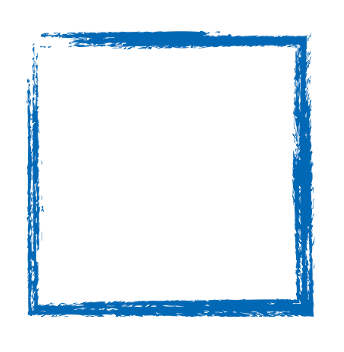
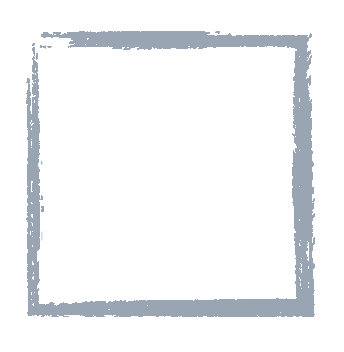
updating the look of the website

Changed region(s): [[0.0581, 0.0625, 0.9302, 0.9062]]

diff --git a/static/css/appOld.css b/static/css/appOld.css
@@ -2782,7 +2782,6 @@ button::-moz-focus-inner {
 /* line 152, ../bower_components/foundation/scss/foundation/components/_button-groups.scss */
 .button-group.even-5 li button, .button-group.even-5 li .button {
   width: 100%;
-  color: black;
 }
 /* line 161, ../bower_components/foundation/scss/foundation/components/_button-groups.scss */
 .button-group.even-6 li {
@@ -3862,7 +3861,7 @@ button::-moz-focus-inner {
 }
 /* line 117, ../bower_components/foundation/scss/foundation/components/_dropdown-buttons.scss */
 .dropdown.button::after, button.dropdown::after {
-  border-color: #000000 transparent transparent transparent;
+  border-color: #FFFFFF transparent transparent transparent;
 }
 /* line 124, ../bower_components/foundation/scss/foundation/components/_dropdown-buttons.scss */
 .dropdown.button.tiny, button.dropdown.tiny {
@@ -6970,7 +6969,7 @@ meta.foundation-mq-topbar {
 }
 /* line 252, ../bower_components/foundation/scss/foundation/components/_top-bar.scss */
 .top-bar .toggle-topbar.menu-icon a {
-  color: #000000;
+  color: #FFFFFF;
   height: 34px;
   line-height: 33px;
   padding: 0 4.375rem 0 2.8125rem;
@@ -7003,7 +7002,7 @@ meta.foundation-mq-topbar {
 }
 /* line 277, ../bower_components/foundation/scss/foundation/components/_top-bar.scss */
 .top-bar.expanded .toggle-topbar a {
-  color: #000000;
+  color: #fff;
 }
 /* line 280, ../bower_components/foundation/scss/foundation/components/_top-bar.scss */
 .top-bar.expanded .toggle-topbar a span::after {
@@ -7051,7 +7050,7 @@ meta.foundation-mq-topbar {
 }
 /* line 334, ../bower_components/foundation/scss/foundation/components/_top-bar.scss */
 .top-bar-section ul li > a {
-  color: #000000;
+  color: #FFFFFF;
   display: block;
   font-family: "Helvetica Neue", Helvetica, Roboto, Arial, sans-serif;
   font-size: 0.8125rem;
@@ -9209,7 +9208,6 @@ ul.off-canvas-list li a:active {
   }
 }
 /* medium displays */
-
 @media only screen and (min-width: 40.0625em) {
   /* line 244, ../bower_components/foundation/scss/foundation/components/_visibility.scss */
   .hide-for-small-only, .show-for-small-up, .hide-for-small, .hide-for-small-down, .show-for-medium-only, .show-for-medium-up, .show-for-medium, .show-for-medium-down, .hide-for-large-only, .hide-for-large-up, .hide-for-large, .show-for-large-down, .hide-for-xlarge-only, .hide-for-xlarge-up, .hide-for-xlarge, .show-for-xlarge-down, .hide-for-xxlarge-only, .hide-for-xxlarge-up, .hide-for-xxlarge, .show-for-xxlarge-down {
@@ -9762,8 +9760,6 @@ button, .button {
   font-weight: 400;
 }
 
-
-
 /* line 50, ../scss/_custom.scss */
 button, .button:hover {
   background-color: transparent;
@@ -9788,8 +9784,8 @@ button, .button:visited {
 /* line 72, ../scss/_custom.scss */
 .f-dropdown li a {
   font-family: "Alegreya Sans SC";
-  font-weight: 400;
-  color: #6B737D;
+  font-weight: 100;
+  color: #0F6AB3;
   background-color: transparent;
   margin: 0;
 }
@@ -9861,24 +9857,24 @@ button, .button:visited {
 
 /* line 140, ../scss/_custom.scss */
 #row1 {
-  background-color: #99a5b3;
+  background-color: #0F6AB3;
 }
 
 /* line 144, ../scss/_custom.scss */
 #row2 {
-  background-color: #99a5b3;
+  background-color: #0F6AB3;
 }
 
 /* line 150, ../scss/_custom.scss */
 #row2 h1 {
   font-family: "Alegreya Sans SC";
   font-weight: 400;
-  color: black;
+  color: white;
   text-align: center;
 }
 /* line 156, ../scss/_custom.scss */
 #row2 p {
-  color: black;
+  color: white;
 }
 
 /* line 164, ../scss/_custom.scss */
@@ -9888,12 +9884,12 @@ button, .button:visited {
 /* line 167, ../scss/_custom.scss */
 #row3 h3 {
   font-family: "Special Elite";
-  color: #6B737D;
+  color: #02326B;
   font-size: 2rem;
 }
 /* line 174, ../scss/_custom.scss */
 #row3 button, #row3 .button {
-  background-color: #6B737D;
+  background-color: #B6B3A7;
 }
 
 /* line 182, ../scss/_custom.scss */
@@ -10086,7 +10082,7 @@ i.fa.fa-times:hover {
 
 /* line 204, ../scss/_custom.scss */
 #about3 {
-  background-color: #99a5b3;
+  background-color: #0F6AB3;
 }
 /* line 207, ../scss/_custom.scss */
 #about3 h2 {
@@ -10103,27 +10099,27 @@ i.fa.fa-times:hover {
 
 /* line 221, ../scss/_custom.scss */
 #trans1, #trans2 {
-  background-color: #99a5b3;
+  background-color: #0F6AB3;
 }
 
 /* line 226, ../scss/_custom.scss */
 #trans2 h2 {
   font-family: "Alegreya Sans SC";
   font-weight: 400;
-  color: #000;
+  color: #fff;
 }
 /* line 232, ../scss/_custom.scss */
 #trans2 p {
   font-family: "Open Sans";
   font-weight: 300;
-  color: #000;
+  color: #fff;
 }
 
 /* line 267, ../scss/_custom.scss */
 #profiles1 ul.tabs {
   padding-top: 80px;
   padding-left: 10%;
-  background-color: #99a5b3;
+  background-color: #0F6AB3;
 }
 /* line 270, ../scss/_custom.scss */
 #profiles1 ul.tabs li.tab-title.active a {
@@ -10135,7 +10131,7 @@ i.fa.fa-times:hover {
   font-family: "Alegreya Sans SC";
   font-weight: 400;
   color: #fff;
-  background-color: #6B737D;
+  background-color: #094371;
   margin-left: 13px;
   border-top-left-radius: 5px;
   border-top-right-radius: 5px;
@@ -10156,7 +10152,7 @@ i.fa.fa-times:hover {
 }
 /* line 252, ../scss/_custom.scss */
 .footer a, .footer p {
-  color: #99a5b3;
+  color: #0F6AB3;
   font-family: "Alegreya Sans SC";
   font-weight: 400;
 }

diff --git a/templates/search/search.html b/templates/search/search.html
@@ -504,14 +504,13 @@ the categories are also hard-coded in but i think that's just how it has to be w
              </div>
            </div>
 
-
-
             {% endif %}
 
            {% empty %}
                <p>No results found.</p>
 
            {% endfor %}
+
 
        {% endwith %}
 

diff --git a/templates/texts.html b/templates/texts.html
@@ -83,11 +83,11 @@
                {% endif %}
 
 
-               <div class=container>
+               <!--<div class=container>
 
                <p><a href=/outputAll>→ Download raw text of all manuscripts</a></p>
 
-               </div>
+             </div> -->
 </div>
 
 
